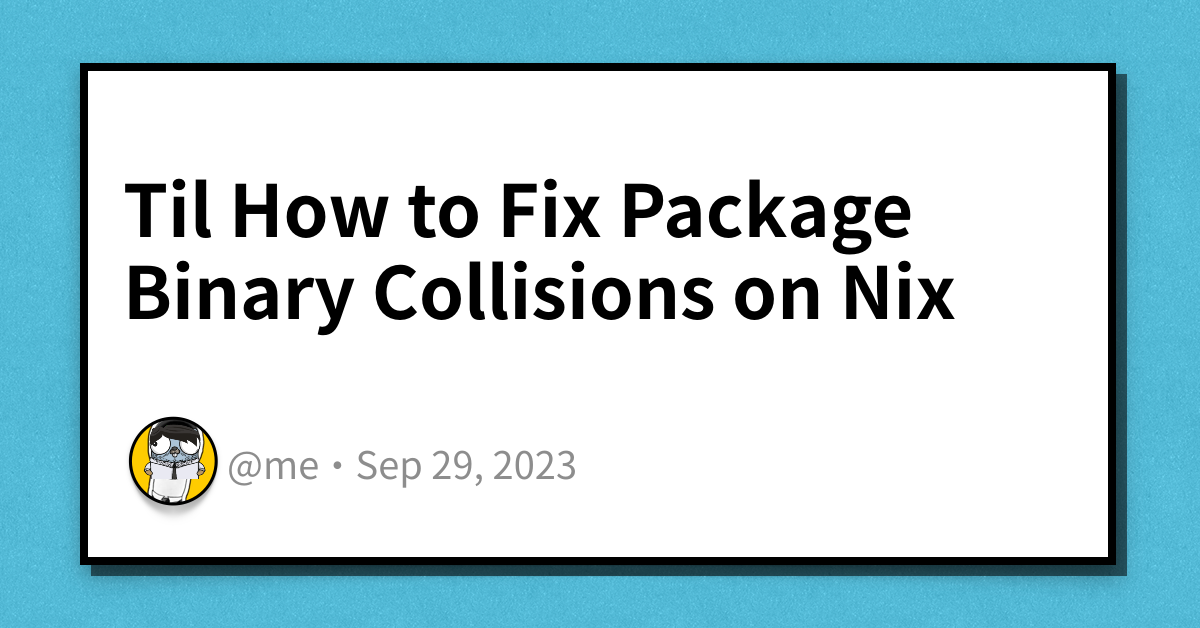
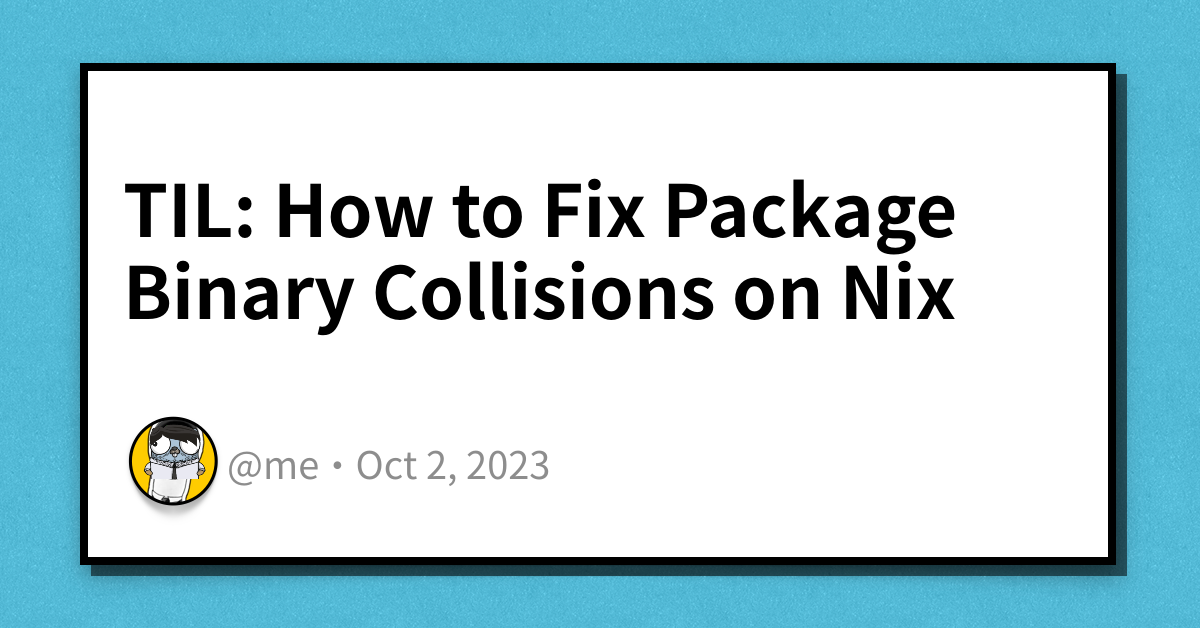
Add new TIL: how to colour dap breakpointed line

Changed region(s): [[0.1233, 0.2723, 0.8017, 0.4236], [0.2775, 0.6959, 0.4933, 0.7866]]

diff --git a/assets/css/lib/chroma-dark.css b/assets/css/lib/chroma-dark.css
@@ -1,59 +1,59 @@
-/* Background */ .bg { color: #ef9f76; background-color: #303446; }
-/* PreWrapper */ .chroma { color: #ef9f76; background-color: #303456; }
+/* Background */ .bg { color: #fab387; background-color: #313244; }
+/* PreWrapper */ .chroma { color: #fab387; background-color: #313244; }
 /* Other */ .chroma .x {  }
-/* Error */ .chroma .err { color: #e78284 }
+/* Error */ .chroma .err { color: #f38ba8 }
 /* CodeLine */ .chroma .cl {  }
 /* LineLink */ .chroma .lnlinks { outline: none; text-decoration: none; color: inherit }
 /* LineTableTD */ .chroma .lntd { vertical-align: top; padding: 0; margin: 0; border: 0; }
 /* LineTable */ .chroma .lntable { border-spacing: 0; padding: 0; margin: 0; border: 0; }
 /* LineHighlight */ .chroma .hl { background-color: #797BA2 }
-/* LineNumbersTable */ .chroma .lnt { white-space: pre; -webkit-user-select: none; user-select: none; margin-right: 0.4em; padding: 0 0.4em 0 0.4em;color: #774f3b }
-/* LineNumbers */ .chroma .ln { white-space: pre; -webkit-user-select: none; user-select: none; margin-right: 0.4em; padding: 0 0.4em 0 0.4em;color: #774f3b }
+/* LineNumbersTable */ .chroma .lnt { white-space: pre; -webkit-user-select: none; user-select: none; margin-right: 0.4em; padding: 0 0.4em 0 0.4em;color: #7d5943 }
+/* LineNumbers */ .chroma .ln { white-space: pre; -webkit-user-select: none; user-select: none; margin-right: 0.4em; padding: 0 0.4em 0 0.4em;color: #7d5943 }
 /* Line */ .chroma .line { display: flex; }
-/* Keyword */ .chroma .k { color: #ca9ee6 }
-/* KeywordConstant */ .chroma .kc { color: #ca9ee6; font-style: italic }
-/* KeywordDeclaration */ .chroma .kd { color: #ca9ee6 }
-/* KeywordNamespace */ .chroma .kn { color: #ca9ee6 }
-/* KeywordPseudo */ .chroma .kp { color: #ca9ee6; font-weight: bold }
-/* KeywordReserved */ .chroma .kr { color: #ca9ee6 }
-/* KeywordType */ .chroma .kt { color: #e5c890 }
-/* Name */ .chroma .n { color: #babbf1 }
-/* NameAttribute */ .chroma .na { color: #e5c890 }
-/* NameBuiltin */ .chroma .nb { color: #c6d0f5; font-style: italic }
-/* NameBuiltinPseudo */ .chroma .bp { color: #babbf1 }
-/* NameClass */ .chroma .nc { color: #e5c890 }
-/* NameConstant */ .chroma .no { color: #e5c890 }
-/* NameDecorator */ .chroma .nd { color: #f4b8e4 }
-/* NameEntity */ .chroma .ni { color: #f4b8e4 }
-/* NameException */ .chroma .ne { color: #ea999c }
-/* NameFunction */ .chroma .nf { color: #99d1db }
-/* NameFunctionMagic */ .chroma .fm { color: #babbf1 }
-/* NameLabel */ .chroma .nl { color: #e5c890 }
-/* NameNamespace */ .chroma .nn { color: #e5c890 }
+/* Keyword */ .chroma .k { color: #cba6f7 }
+/* KeywordConstant */ .chroma .kc { color: #cba6f7; font-style: italic }
+/* KeywordDeclaration */ .chroma .kd { color: #cba6f7 }
+/* KeywordNamespace */ .chroma .kn { color: #cba6f7 }
+/* KeywordPseudo */ .chroma .kp { color: #cba6f7; font-weight: bold }
+/* KeywordReserved */ .chroma .kr { color: #cba6f7 }
+/* KeywordType */ .chroma .kt { color: #f9e2af }
+/* Name */ .chroma .n { color: #b4befe }
+/* NameAttribute */ .chroma .na { color: #f9e2af }
+/* NameBuiltin */ .chroma .nb { font-style: italic }
+/* NameBuiltinPseudo */ .chroma .bp { color: #b4befe }
+/* NameClass */ .chroma .nc { color: #f9e2af }
+/* NameConstant */ .chroma .no { color: #f9e2af }
+/* NameDecorator */ .chroma .nd { color: #f5c2e7 }
+/* NameEntity */ .chroma .ni { color: #f5c2e7 }
+/* NameException */ .chroma .ne { color: #eba0ac }
+/* NameFunction */ .chroma .nf { color: #89dceb }
+/* NameFunctionMagic */ .chroma .fm { color: #b4befe }
+/* NameLabel */ .chroma .nl { color: #f9e2af }
+/* NameNamespace */ .chroma .nn { color: #f9e2af }
 /* NameOther */ .chroma .nx {  }
-/* NameProperty */ .chroma .py { color: #babbf1 }
-/* NameTag */ .chroma .nt { color: #ca9ee6 }
+/* NameProperty */ .chroma .py { color: #b4befe }
+/* NameTag */ .chroma .nt { color: #cba6f7 }
 /* NameVariable */ .chroma .nv {  }
-/* NameVariableClass */ .chroma .vc { color: #babbf1 }
-/* NameVariableGlobal */ .chroma .vg { color: #babbf1 }
-/* NameVariableInstance */ .chroma .vi { color: #babbf1 }
-/* NameVariableMagic */ .chroma .vm { color: #babbf1 }
+/* NameVariableClass */ .chroma .vc { color: #b4befe }
+/* NameVariableGlobal */ .chroma .vg { color: #b4befe }
+/* NameVariableInstance */ .chroma .vi { color: #b4befe }
+/* NameVariableMagic */ .chroma .vm { color: #b4befe }
 /* Literal */ .chroma .l {  }
 /* LiteralDate */ .chroma .ld {  }
-/* LiteralString */ .chroma .s { color: #a6d189 }
-/* LiteralStringAffix */ .chroma .sa { color: #a6d189 }
-/* LiteralStringBacktick */ .chroma .sb { color: #a6d189 }
-/* LiteralStringChar */ .chroma .sc { color: #a6d189 }
-/* LiteralStringDelimiter */ .chroma .dl { color: #a6d189 }
-/* LiteralStringDoc */ .chroma .sd { color: #a6d189 }
-/* LiteralStringDouble */ .chroma .s2 { color: #a6d189 }
-/* LiteralStringEscape */ .chroma .se { color: #8caaee }
-/* LiteralStringHeredoc */ .chroma .sh { color: #a6d189 }
-/* LiteralStringInterpol */ .chroma .si { color: #a6d189 }
-/* LiteralStringOther */ .chroma .sx { color: #a6d189 }
-/* LiteralStringRegex */ .chroma .sr { color: #8caaee }
-/* LiteralStringSingle */ .chroma .s1 { color: #a6d189 }
-/* LiteralStringSymbol */ .chroma .ss { color: #a6d189 }
+/* LiteralString */ .chroma .s { color: #a6e3a1 }
+/* LiteralStringAffix */ .chroma .sa { color: #a6e3a1 }
+/* LiteralStringBacktick */ .chroma .sb { color: #a6e3a1 }
+/* LiteralStringChar */ .chroma .sc { color: #a6e3a1 }
+/* LiteralStringDelimiter */ .chroma .dl { color: #a6e3a1 }
+/* LiteralStringDoc */ .chroma .sd { color: #a6e3a1 }
+/* LiteralStringDouble */ .chroma .s2 { color: #a6e3a1 }
+/* LiteralStringEscape */ .chroma .se { color: #89b4fa }
+/* LiteralStringHeredoc */ .chroma .sh { color: #a6e3a1 }
+/* LiteralStringInterpol */ .chroma .si { color: #a6e3a1 }
+/* LiteralStringOther */ .chroma .sx { color: #a6e3a1 }
+/* LiteralStringRegex */ .chroma .sr { color: #89b4fa }
+/* LiteralStringSingle */ .chroma .s1 { color: #a6e3a1 }
+/* LiteralStringSymbol */ .chroma .ss { color: #a6e3a1 }
 /* LiteralNumber */ .chroma .m {  }
 /* LiteralNumberBin */ .chroma .mb {  }
 /* LiteralNumberFloat */ .chroma .mf {  }
@@ -61,26 +61,26 @@
 /* LiteralNumberInteger */ .chroma .mi {  }
 /* LiteralNumberIntegerLong */ .chroma .il {  }
 /* LiteralNumberOct */ .chroma .mo {  }
-/* Operator */ .chroma .o { color: #99d1db }
-/* OperatorWord */ .chroma .ow { color: #99d1db; font-weight: bold }
-/* Punctuation */ .chroma .p { color: #c6d0f5 }
-/* Comment */ .chroma .c { color: #626880; font-style: italic }
-/* CommentHashbang */ .chroma .ch { color: #626880; font-style: italic }
-/* CommentMultiline */ .chroma .cm { color: #626880; font-style: italic }
-/* CommentSingle */ .chroma .c1 { color: #626880; font-style: italic }
-/* CommentSpecial */ .chroma .cs { color: #626880; font-style: italic }
-/* CommentPreproc */ .chroma .cp { color: #8caaee; font-style: italic }
-/* CommentPreprocFile */ .chroma .cpf { color: #8caaee; font-style: italic }
+/* Operator */ .chroma .o { color: #89dceb }
+/* OperatorWord */ .chroma .ow { color: #89dceb; font-weight: bold }
+/* Punctuation */ .chroma .p { color: #cdd6f4 }
+/* Comment */ .chroma .c { color: #585b70; font-style: italic }
+/* CommentHashbang */ .chroma .ch { color: #585b70; font-style: italic }
+/* CommentMultiline */ .chroma .cm { color: #585b70; font-style: italic }
+/* CommentSingle */ .chroma .c1 { color: #585b70; font-style: italic }
+/* CommentSpecial */ .chroma .cs { color: #585b70; font-style: italic }
+/* CommentPreproc */ .chroma .cp { color: #89b4fa; font-style: italic }
+/* CommentPreprocFile */ .chroma .cpf { color: #89b4fa; font-style: italic }
 /* Generic */ .chroma .g {  }
-/* GenericDeleted */ .chroma .gd { color: #ea999c }
+/* GenericDeleted */ .chroma .gd { color: #eba0ac }
 /* GenericEmph */ .chroma .ge { font-style: italic }
-/* GenericError */ .chroma .gr { color: #ea999c }
-/* GenericHeading */ .chroma .gh { color: #99d1db; font-weight: bold }
-/* GenericInserted */ .chroma .gi { color: #a6d189 }
+/* GenericError */ .chroma .gr { color: #eba0ac }
+/* GenericHeading */ .chroma .gh { color: #89dceb; font-weight: bold }
+/* GenericInserted */ .chroma .gi { color: #a6e3a1 }
 /* GenericOutput */ .chroma .go {  }
-/* GenericPrompt */ .chroma .gp { color: #737994; font-weight: bold }
+/* GenericPrompt */ .chroma .gp { color: #6c7086; font-weight: bold }
 /* GenericStrong */ .chroma .gs { font-weight: bold }
-/* GenericSubheading */ .chroma .gu { color: #99d1db; font-weight: bold }
-/* GenericTraceback */ .chroma .gt { color: #ea999c }
+/* GenericSubheading */ .chroma .gu { color: #89dceb; font-weight: bold }
+/* GenericTraceback */ .chroma .gt { color: #eba0ac }
 /* GenericUnderline */ .chroma .gl {  }
-/* TextWhitespace */ .chroma .w { color: #414559 }
+/* TextWhitespace */ .chroma .w { color: #313244 }

diff --git a/assets/css/core/theme-vars.css b/assets/css/core/theme-vars.css
@@ -50,15 +50,15 @@
 }
 
 .dark {
-    --theme: #303446;
-    --entry: #414559;
-    --primary: #b5bfe2;
-    --primary-dim: #414559;
+    --theme: #1e1e2e;
+    --entry: #313244;
+    --primary: #b4befe;
+    --primary-dim: #6c7086;
     --secondary: #c6d0f5;
-    --tertiary:#414559;
-    --tertiary-bg: #232634;
-    --content: #c6d0f5;
-    --code-bg: #292c3c;
+    --tertiary:#9399b2;
+    --tertiary-bg: #45475a;
+    --content: #cdd6f4;
+    --code-bg: #313244;
     --border: #414559;
     --link-background-color: #8caaee6d;
     --link-color: var(--primary);

diff --git a/content/posts/2023-10-07-til-how-to-colour-dap-breakpointed-line-in-neovim/index.md b/content/posts/2023-10-07-til-how-to-colour-dap-breakpointed-line-in-neovim/index.md
@@ -1,0 +1,36 @@
+---
+title: "TIL: How to Colour Dap Breakpointed Line in Neovim"
+date: 2023-10-07
+canonicalURL: https://haseebmajid.dev/posts/2023-10-07-til-how-to-colour-dap-breakpointed-line-in-neovim
+tags:
+ - neovim
+ - dap
+series:
+ - TIL
+---
+
+**TIL: How to Colour Dap Breakpointed Line in Neovim**
+
+I wanted to change the background colour of the line when it was stopped during debugging using DAP with neovim.
+To make it easier to see where we are currently breakpointed.
+
+We already have a highlight group called `DapStopped`. Which in my case is defined as:
+`DapStopped = { bg = C.grey }`.
+
+Then we need to assign the custom highlight group, the key bit being `linehl` for our use case.
+
+```lua {hl_lines=[8]}
+require("dap")
+
+local sign = vim.fn.sign_define
+
+sign("DapBreakpoint", { text = "●", texthl = "DapBreakpoint", linehl = "", numhl = ""})
+sign("DapBreakpointCondition", { text = "●", texthl = "DapBreakpointCondition", linehl = "", numhl = ""})
+sign("DapLogPoint", { text = "◆", texthl = "DapLogPoint", linehl = "", numhl = ""})
+sign('DapStopped', { text='', texthl='DapStopped', linehl='DapStopped', numhl= 'DapStopped' })
+```
+
+Then we start the debugger and it stops at a breakpoint line it looks something like in the photo below.
+
+![Debugging](images/debug.png)
+
